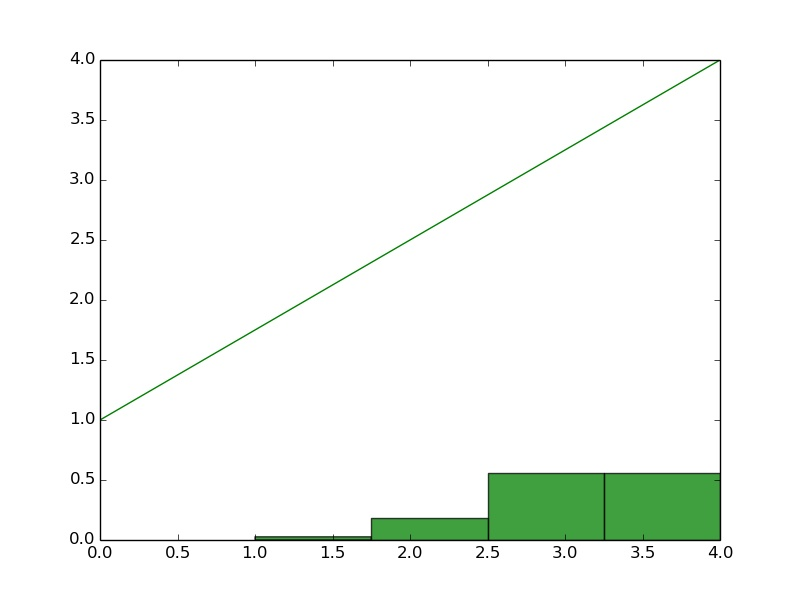
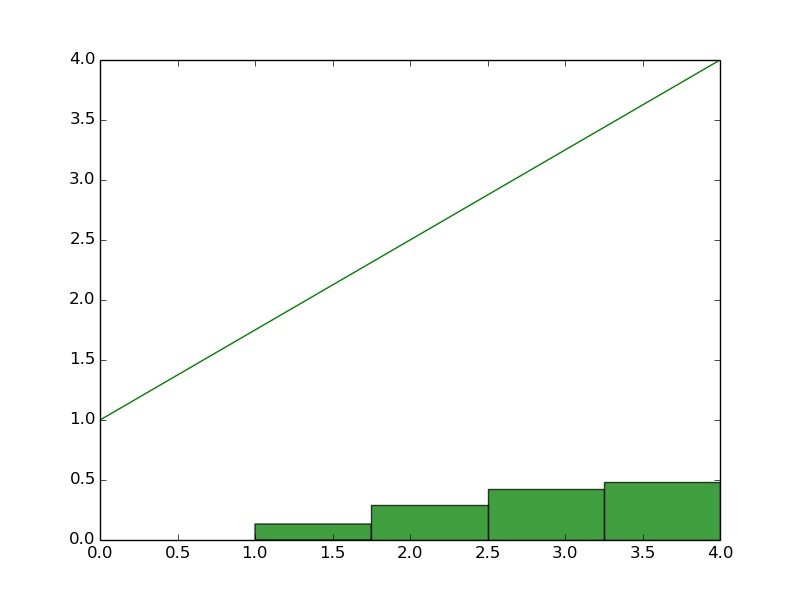
Modified changes from general to specific

Changed region(s): [[0.3125, 0.78, 0.9062, 0.9]]

diff --git a/hw3/hw3.py b/hw3/hw3.py
@@ -85,20 +85,39 @@ def p2(X_train, y_train, X_test, y_test):
 	print "\tPart 2 >>"
 	y_out	= y_train.T
 	#print y_out
-	labels		= np.array(Counter(y_out[0]).keys()).astype(np.int32)
-	label_counts	= np.array(Counter(y_out[0]).values()).astype(np.int32)
-	label_prob	= np.array([count*1.0/np.sum(label_counts) for count in label_counts], dtype = np.float32).T.astype(np.float32)
-	print label_prob
-	label_arr	= np.transpose(np.vstack((labels,label_counts,label_prob)))		
-	#print label_arr
+
+#	labels		= np.array(Counter(y_out[0]).keys()).astype(np.int32)
+#	label_counts	= np.array(Counter(y_out[0]).values()).astype(np.int32)
+#	label_prob	= np.array([count*1.0/np.sum(label_counts) for count in label_counts], dtype = np.float32).T.astype(np.float32)
+#	print label_prob
+#	label_arr	= np.transpose(np.vstack((labels,label_counts,label_prob)))		
+#	#print label_arr
 	
-	mu_list		= np.zeros((len(labels), len(X_train[0,1:])))
-	cov_list	= []
+#	mu_list		= np.zeros((len(labels), len(X_train[0,1:])))
+#	cov_list	= []
 #	print mu_list
-	for idx,label in enumerate(labels):
-		mu_list[idx,:], cov = gaussParam(label, X_train[:,1:], y_train)
-		cov_list.append(cov)
-	print cov_list
+#	for idx,label in enumerate(labels):
+#		mu_list[idx,:], cov = gaussParam(label, X_train[:,1:], y_train)
+#		cov_list.append(cov)
+#	print cov_list
+
+	train = np.hstack((X_train[:,1:],y_train))
+	cl1 = []
+	cl_1 = []
+	for row in train:
+		if row[-1] == 1:
+			cl1.append(row[:-1])
+		else:
+			cl_1.append(row[:-1])
+	cl1	= np.array(cl1)
+	cl_1	= np.array(cl_1)
+
+	mu1 = np.mean(cl1, axis=0)
+	mu_1= np.mean(cl_1, axis=0)
+
+	print mu1, mu_1
+	cov = np.cov(cl1[:,:-1], cl_1[:,:-1])
+	print np.linalg.pinv(cov)	
 
 ## part 3
 def p3():
